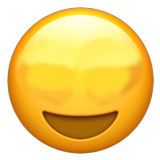
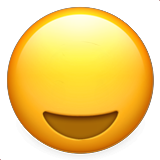
new templates, ability to have more than one paramter image per template

diff --git a/emoji-workflow/src/App.js b/emoji-workflow/src/App.js
@@ -6,8 +6,8 @@ import Slider from 'react-input-slider';
 import ImagePicker from 'react-image-picker'
 import 'react-image-picker/dist/index.css'
 
-import blankEyes from './faceImages/nice_blank_eyes.png'
-import blankEyesDefaults from './faceImages/nice_blank_eyes.json'
+import blankEyes from './faceImages/blank_eyes.png'
+import blankEyesDefaults from './faceImages/blank_eyes.json'
 
 var images = [];
 var defaults = [];
@@ -15,8 +15,9 @@ var defaults = [];
 export default class App extends React.Component {
   state = {
     backgroundImage: blankEyes,
-    liveSettings: { ...blankEyesDefaults["settings"][0] },
-    initialSettings: { ...blankEyesDefaults["settings"][0] },
+    images: [],
+    liveSettings: blankEyesDefaults["settings"],
+    initialSettings: blankEyesDefaults["settings"],
     imageSourceType: "file"
   }
 
@@ -28,7 +29,7 @@ export default class App extends React.Component {
     keys.forEach(function (key) {
       try {
         var jsonFile = require('./faceImages/' + key.substring(2, key.lastIndexOf('.')) + '.json');
-        defaults.push(jsonFile["settings"][0]);
+        defaults.push(jsonFile["settings"]);
       } catch (e) {
         defaults.push({});
       }
@@ -36,29 +37,7 @@ export default class App extends React.Component {
   }
 
   builtinImageChosen = (image) => {
-    this.setState(state => ({ backgroundImage: image.src, liveSettings: { ...state.liveSettings, ...defaults[image.value] }, initialSettings: { ...state.liveSettings, ...defaults[image.value] } }));
-  }
-
-  onSelectBGFile = e => {
-    if (e.target.files && e.target.files.length > 0) {
-      const reader = new FileReader()
-      reader.addEventListener(
-        'load',
-        () => {
-          var image = new Image();
-
-          image.src = reader.result;
-
-          image.onload = () => {
-            this.setState({
-              backgroundImage: reader.result,
-            })
-          };
-        },
-        false
-      )
-      reader.readAsDataURL(e.target.files[0])
-    }
+    this.setState(state => ({ backgroundImage: image.src, liveSettings: defaults[image.value], initialSettings: defaults[image.value] }));
   }
 
   transformPropsForCanvas(settings) {
@@ -70,6 +49,37 @@ export default class App extends React.Component {
     return result;
   }
 
+  updateLiveSettings(index, image, settings) {
+    this.setState(state => {
+      const liveSettings = state.liveSettings.map((value, i) => {
+        if (index === i) {
+          return settings;
+        } else {
+          return value;
+        }
+      });
+
+      var images = state.images.map((value, i) => {
+        if (index === i) {
+          return image;
+        } else {
+          return value;
+        }
+      });
+
+      while (index >= images.length) {
+        if (images.length === index) {
+          images.push(image);
+        } else {
+          images.push({});
+        }
+      }
+
+      return { images: images, liveSettings: liveSettings }
+    }
+    );
+  }
+
   render() {
     return (
       <div className="Top" style={{ height: "100%", display: "flex", flexDirection: "column" }}>
@@ -77,13 +87,20 @@ export default class App extends React.Component {
           <div>Emoji Workflow<br />
             <Canvas
               backgroundImage={this.state.backgroundImage}
-              settings={this.transformPropsForCanvas(this.state.liveSettings)}
+              images={this.state.images}
+              settings={this.state.liveSettings.map(ls => this.transformPropsForCanvas(ls))}
             />
           </div>
-          <ImageSettings
-            initialSettings={this.state.initialSettings}
-            onChange={(settings) => this.setState({ liveSettings: settings })}
-          />
+          {this.state.initialSettings.map(
+            (value, index, array) =>
+              <ImageSettings
+                initialSettings={value}
+                image={this.state.images[index]}
+                onChange={(image, settings) => this.updateLiveSettings(index, image, settings)}
+              />
+
+          )}
+
         </div>
         <div className="App">
           <div style={{ display: "flex", flexDirection: "column", justifyContent: "center" }}>
@@ -92,9 +109,6 @@ export default class App extends React.Component {
               <ImagePicker
                 images={images.map((image, i) => ({ src: image, value: i }))}
                 onPick={this.builtinImageChosen} />
-            </div>
-            <div className="AppSmall">
-              Or choose a custom image:&nbsp;&nbsp;<input type="file" onChange={this.onSelectBGFile} style={{ alignSelf: 'top' }} />
             </div>
           </div>
         </div>

diff --git a/emoji-workflow/src/Canvas.js b/emoji-workflow/src/Canvas.js
@@ -26,11 +26,20 @@ export default class Canvas extends Component {
 
     gl.enable(gl.BLEND);
     gl.blendFunc(gl.ONE, gl.ONE_MINUS_SRC_ALPHA);
+
+    this.srcTextures = [];
   }
 
   componentDidUpdate(oldProps) {
-    if (oldProps.settings.src != this.props.settings.src) {
-      this.updateSrcTexture(this.props.settings.src);
+    var imagesChanged = oldProps.images.length != this.props.images.length;
+    for (var i = 0; i < this.props.images.length && !imagesChanged; ++i) {
+      if (oldProps.images[i].src != this.props.images[i].src) {
+        imagesChanged = true;
+      }
+    }
+
+    if (imagesChanged) {
+      this.updateSrcTextures(this.props.images);
     }
 
     if (oldProps.backgroundImage != this.props.backgroundImage) {
@@ -45,15 +54,13 @@ export default class Canvas extends Component {
     this.bgTexture = renderer.loadTexture(gl, this.props.backgroundImage)
   }
 
-  updateSrcTexture(src) {
-    if (src != null) {
+  updateSrcTextures(images) {
+    this.srcTextures = images.map((image) => {
       const canvas = document.querySelector('#glcanvas');
       const gl = canvas.getContext('webgl');
 
-      this.srcTexture = renderer.loadTexture(gl, src, gl.LINEAR);
-    } else {
-      this.srcTexture = null;
-    }
+      return { texture: renderer.loadTexture(gl, image.src, gl.LINEAR), aspectRatio: image.aspectRatio };
+    });
   }
 
   renderDynamicElement(gl, texture, aspectRatio, settings) {
@@ -84,17 +91,19 @@ export default class Canvas extends Component {
   renderGlScene(gl, programs) {
     renderer.drawStart(gl);
 
-    if (!this.props.settings.behindTemplate) {
-      renderer.drawScene(gl, this.programInfo, this.buffers, this.bgTexture, [1.0, 1.0, 1.0], [0, 0, 0], 0, [1.0, 1.0, 1.0]);
-    }
+    this.srcTextures.forEach((element, index) => {
+      if (this.props.settings[index] && this.props.settings[index].behindTemplate) {
+        this.renderDynamicElement(gl, element.texture, element.aspectRatio, this.props.settings[index]);
+      }
+    });
 
-    if (this.srcTexture) {
-      this.renderDynamicElement(gl, this.srcTexture, this.props.settings.aspectRatio, this.props.settings);
-    }
+    renderer.drawScene(gl, this.programInfo, this.buffers, this.bgTexture, [1.0, 1.0, 1.0], [0, 0, 0], 0, [1.0, 1.0, 1.0]);
 
-    if (this.props.settings.behindTemplate) {
-      renderer.drawScene(gl, this.programInfo, this.buffers, this.bgTexture, [1.0, 1.0, 1.0], [0, 0, 0], 0, [1.0, 1.0, 1.0]);
-    }
+    this.srcTextures.forEach((element, index) => {
+      if (this.props.settings[index] && !this.props.settings[index].behindTemplate) {
+        this.renderDynamicElement(gl, element.texture, element.aspectRatio, this.props.settings[index]);
+      }
+    });
 
     this.rafHandle = raf(this.renderGlScene.bind(this, gl, programs));
   }

diff --git a/emoji-workflow/src/ImageSettings.js b/emoji-workflow/src/ImageSettings.js
@@ -4,12 +4,13 @@ import Slider from 'react-input-slider';
 export default class Canvas extends Component {
 
   state = {
+    image: {},
     liveSettings: {},
     imageSourceType: "file"
   }
 
   componentDidMount() {
-    this.setState(state => ({ liveSettings: { ...state.liveSettings, ...this.props.initialSettings } }));
+    this.setState(state => ({ liveSettings: { ...state.liveSettings, ...this.props.initialSettings }, image: this.props.image }));
   }
 
   componentDidUpdate(oldProps) {
@@ -26,8 +27,8 @@ export default class Canvas extends Component {
 
     image.onload = () => {
       this.setState(state => (
-        { liveSettings: { ...state.liveSettings, src: src, aspectRatio: image.width / image.height } }),
-        () => this.props.onChange(this.state.liveSettings)
+        { image: { src: src, aspectRatio: image.width / image.height } }),
+        () => this.props.onChange(this.state.image, this.state.liveSettings)
       );
     };
   }
@@ -54,7 +55,7 @@ export default class Canvas extends Component {
   updateSettings(name, value) {
     this.setState(state => (
       { liveSettings: { ...state.liveSettings, [name]: value } }),
-      () => this.props.onChange(this.state.liveSettings)
+      () => this.props.onChange(this.state.image, this.state.liveSettings)
     );
   }
 
@@ -64,7 +65,7 @@ export default class Canvas extends Component {
         <div className="AppSmall">
           <ul style={{ listStyleType: "none" }}>
             <li>{this.state.liveSettings.imageTitle}:</li>
-            <li><img src={this.state.liveSettings.src} style={this.state.liveSettings.src ? { height: 100, border: "1px solid white" } : { height: 100, width: 100, border: "1px solid white" }} /></li>
+            <li><img src={this.state.image ? this.state.image.src : null} style={this.state.image ? { height: 100, border: "1px solid white" } : { height: 100, width: 100, border: "1px solid white" }} /></li>
             <li><input type={this.state.imageSourceType} onChange={this.onSelectImage} /></li>
             <div>
               <button onClick={() => { this.setState({ imageSourceType: "file" }) }}>File</button>&nbsp;
